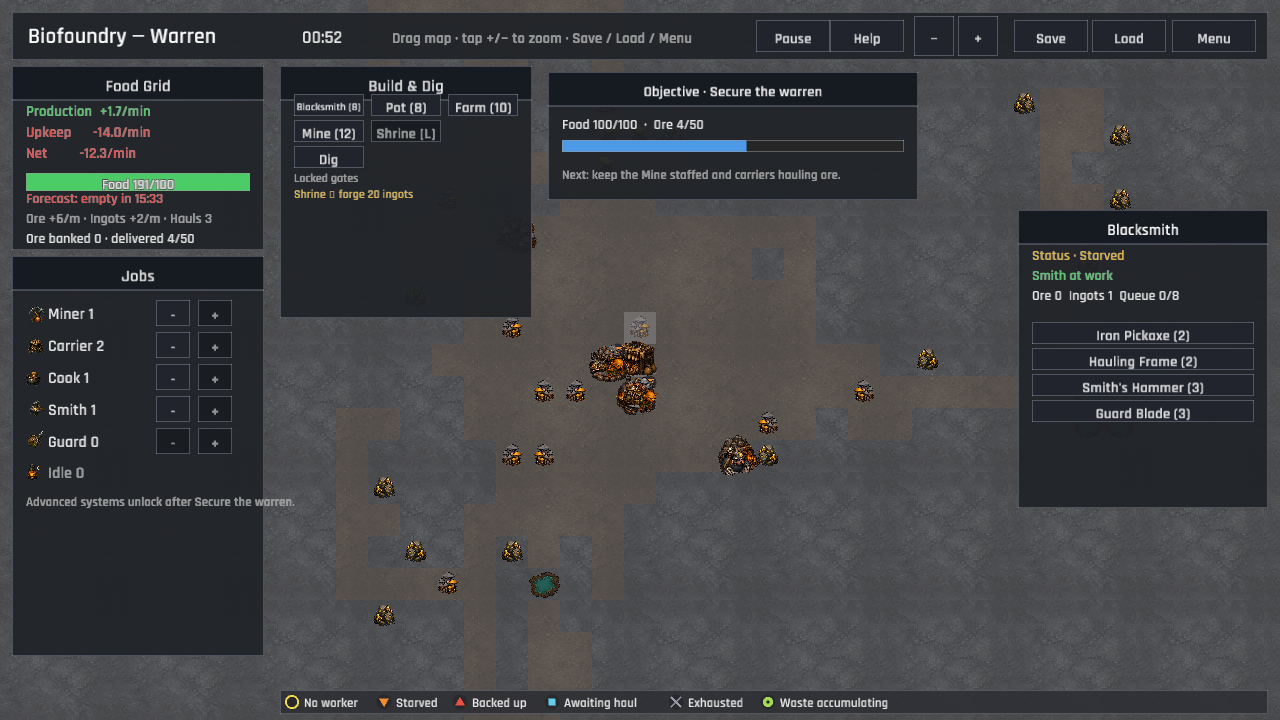
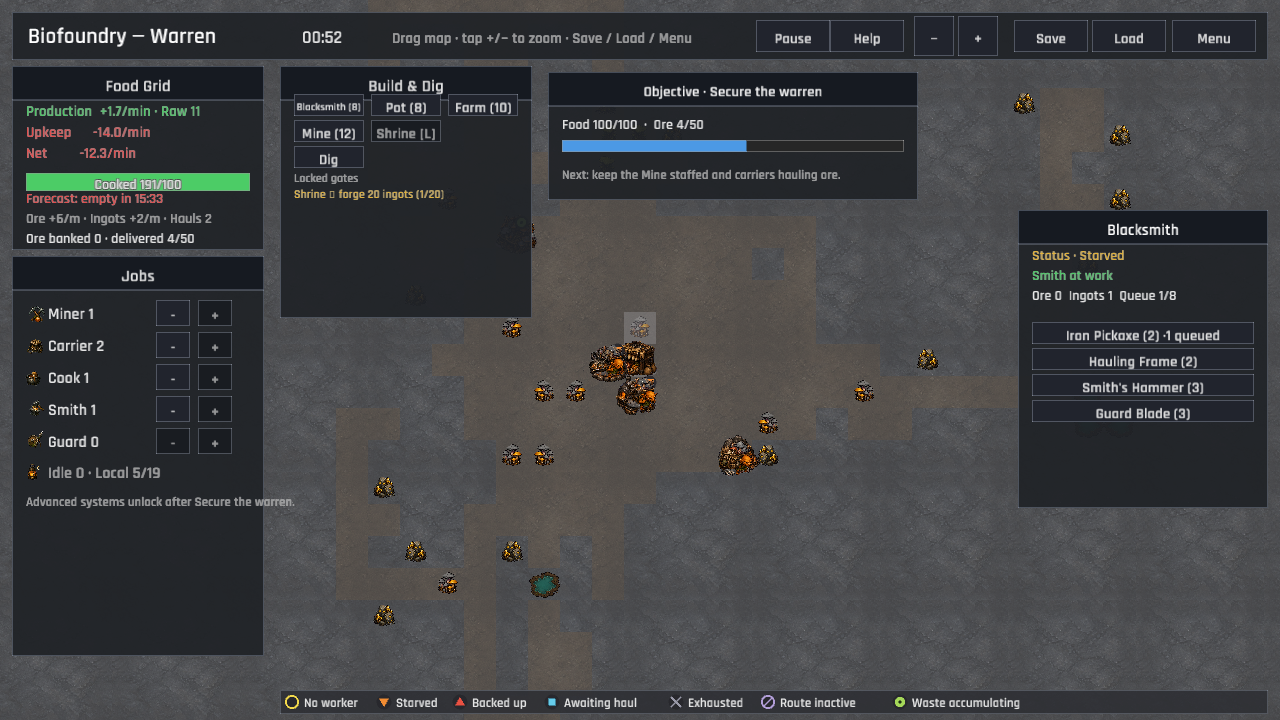
The field journal hears the hungry anvil (candidate evidence)
The candidate record now points to the Blacksmith diagnostics revision and the current 185-test validation. Its refreshed Blacksmith capture records the staffed unpaid-order stall with the visible ore shortage and Starved status.

diff --git a/docs/phase-one/CANDIDATE_VERIFICATION.md b/docs/phase-one/CANDIDATE_VERIFICATION.md
@@ -1,7 +1,7 @@
 # Current Candidate Verification
 
 **Date:** 2026-08-30  
-**Source revision:** `79bd8a9`
+**Source revision:** `3985839`
 **Published target:** WebGL Preview at `/games/biofoundry/`  
 **Browser viewport:** 1280×720; game canvas 1200×675  
 **Input used:** visible pointer controls only
@@ -29,7 +29,7 @@ automated simulation results into first-time-player evidence.
 ## Automated candidate checks
 
 - `cargo fmt -- --check` — pass.
-- `cargo test --all-targets` — 184 unit tests and 2 integration tests pass.
+- `cargo test --all-targets` — 185 unit tests and 2 integration tests pass.
 - `cargo clippy --all-targets --all-features -- -D warnings` — pass.
 - `publish.ps1` with no parameters — pass; Windows and WebGL packages
   deployed to Preview.
@@ -61,6 +61,10 @@ automated simulation results into first-time-player evidence.
 - Raw ingredient ledger — the Food Grid now shows the raw mushroom total beside
   production and labels the reserve as cooked food; focused simulation coverage
   keeps the displayed raw mirror aligned with post-spoilage stock.
+- Blacksmith input stall — [ui_blacksmith.png](../verification/ui_blacksmith.png)
+  shows a staffed smith with an unpaid Iron Pickaxe queued, `Ore 0`, and the
+  visible `Status · Starved` recovery state; focused UI coverage keeps a paid
+  order nominal while exposing the missing-ore stall.
 - Completion capture — [ui_completion.png](../verification/ui_completion.png)
   shows the Worm Awakened summary naming the food and ingot totals, with visible
   Continue in Endless and Return to Menu choices. The completed Objective also
